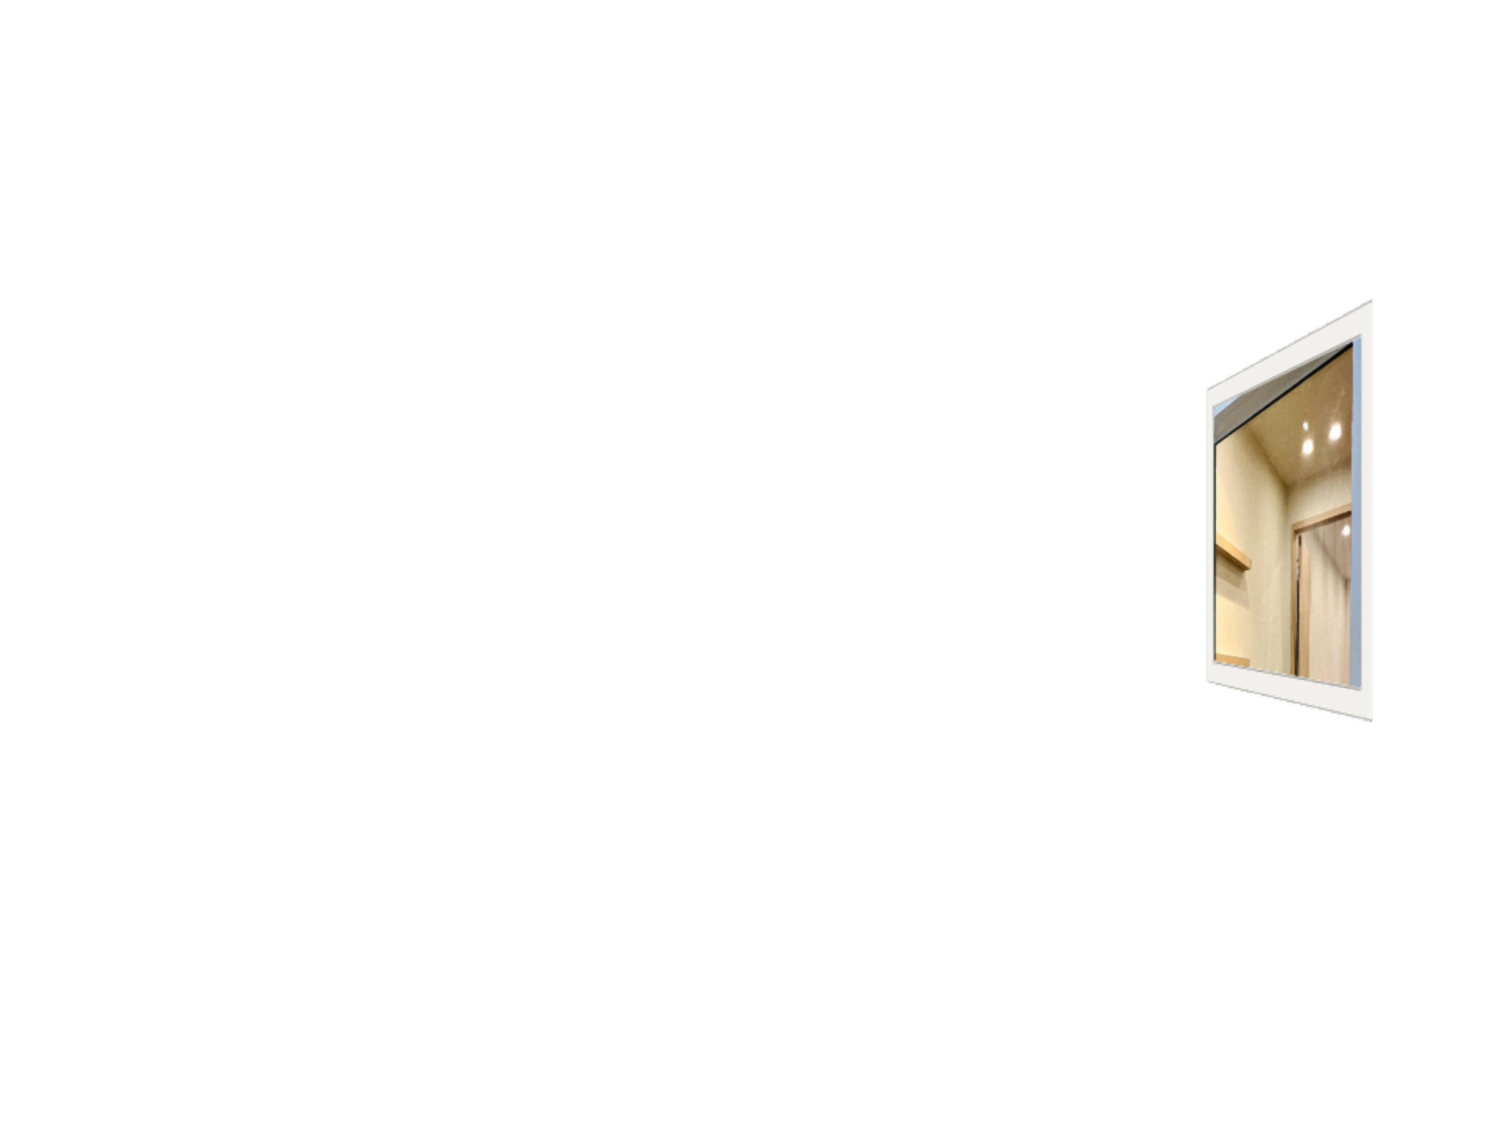
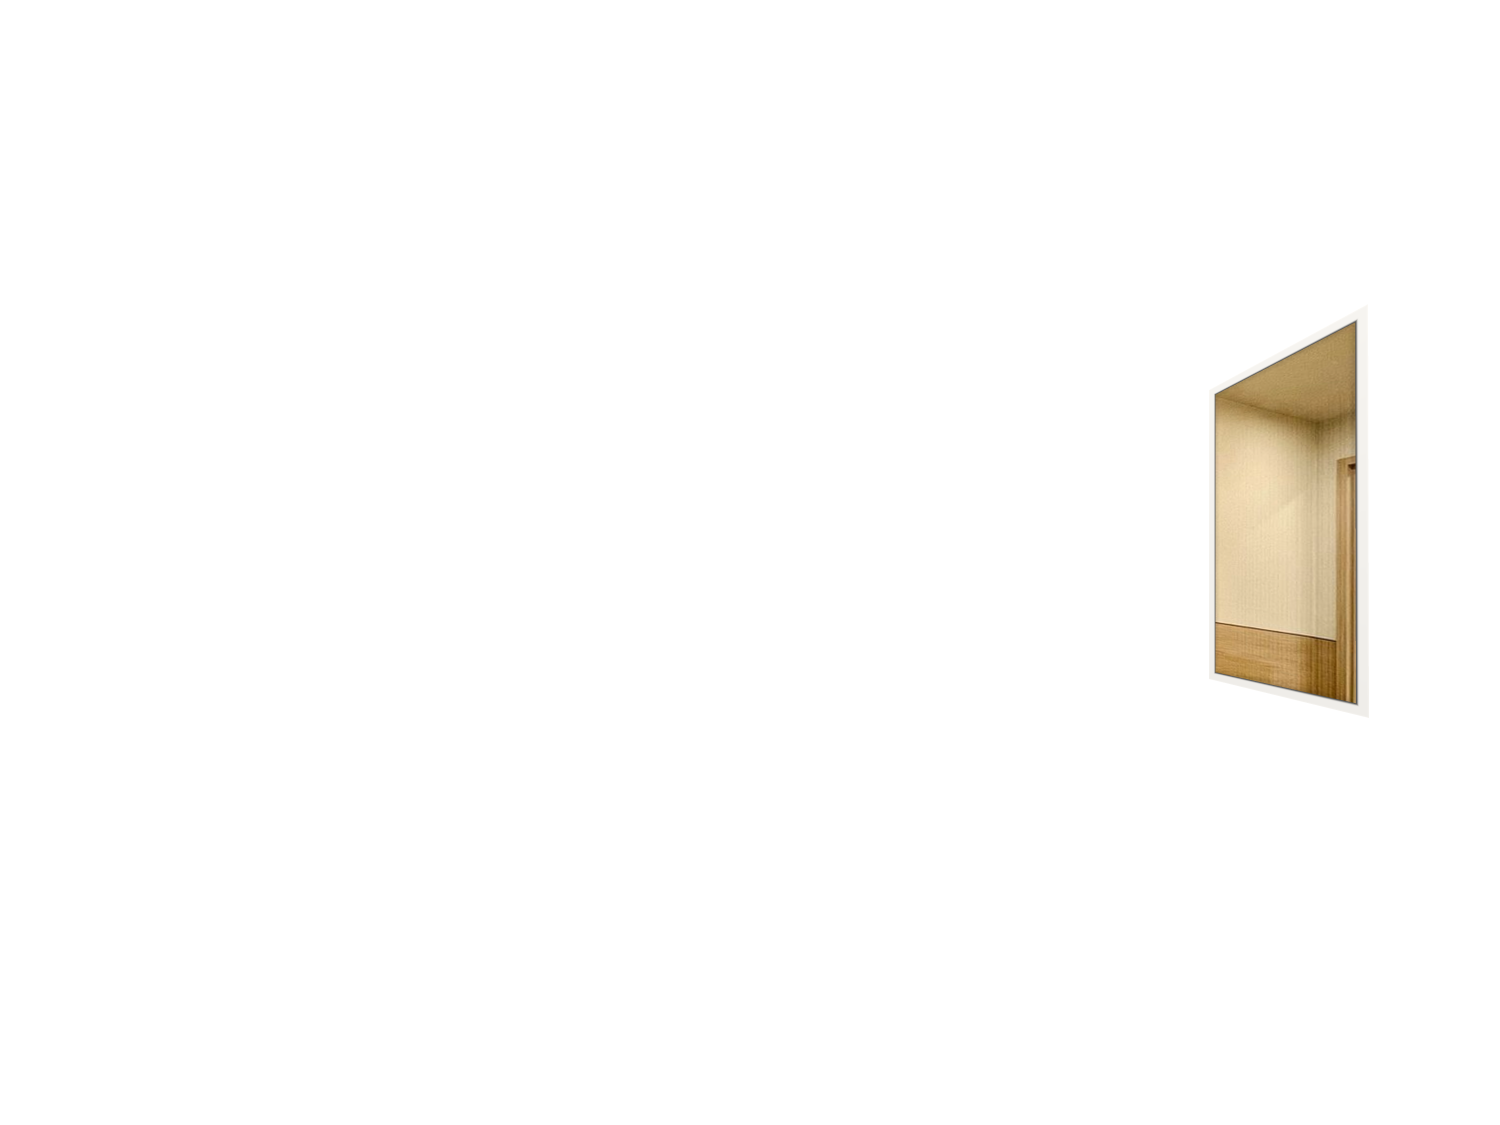
실사 모드 시창·타공판·후면 아트보드 클린 보정
- 후면 아트보드: 3분할 패널을 균일 텍스처로 재생성, 우측 하단 콘센트/대각선/패치 자국·상단 빛 점 제거
- 아트보드 표시 시 후면 콘센트 영역까지 패널로 덮도록 커버리지 분리(backFull)
- 측면 라인타공: 원근에 맞춘 루버 패턴으로 재생성, 바닥 경계선까지 밀착(밝은 틈 제거)·표면 얼룩/ seam 제거
- 시창 7종: 2x 안티앨리어싱 정밀 프레임으로 재생성(베벨 톱니 제거), 1500px 실사 뷰 사용(이중창은 에지 스무딩)
- 에셋 캐시 버전 갱신

Changed region(s): [[0.7973, 0.28, 0.92, 0.6533]]

diff --git a/assets/configurator.js b/assets/configurator.js
@@ -2473,19 +2473,19 @@ function photoHexToRgb(hex){
 const photoWinImgs = {};
 function preloadPhotoWins(){
   const map = {
-    '600x800': 'assets/win-600.png?v=7',
-    '800x800': 'assets/win-800.png?v=7',
-    '1200x800': 'assets/win-1200.png?v=7',
-    'double1200': 'assets/win-double.png?v=7',
+    '600x800': 'assets/win-600.png?v=8',
+    '800x800': 'assets/win-800.png?v=8',
+    '1200x800': 'assets/win-1200.png?v=8',
+    'double1200': 'assets/win-double.png?v=8',
     'rail_ceiling': 'assets/ceiling-rail.png?v=9',
     'slat_nocob': 'assets/slat-nocob.png?v=4',
-    'side_left': 'assets/side-slat-left.png?v=1',
-    'side_right': 'assets/side-slat-right.png?v=1',
-    'back_art': 'assets/back-artboard.png?v=1',
-    'back_600x800': 'assets/win-600x800-back.png?v=3',
-    'back_800x800': 'assets/win-800x800-back.png?v=3',
-    'back_1200x800': 'assets/win-1200x800-back.png?v=3',
-    'back_double1200': 'assets/win-double-back.png?v=3',
+    'side_left': 'assets/side-slat-left.png?v=2',
+    'side_right': 'assets/side-slat-right.png?v=2',
+    'back_art': 'assets/back-artboard.png?v=2',
+    'back_600x800': 'assets/win-600x800-back.png?v=4',
+    'back_800x800': 'assets/win-800x800-back.png?v=4',
+    'back_1200x800': 'assets/win-1200x800-back.png?v=4',
+    'back_double1200': 'assets/win-double-back.png?v=4',
     'ceiling_clean': 'assets/ceiling-clean.webp?v=1',
     'side_light_left': 'assets/side-light-left.webp?v=1',
     'side_light_right': 'assets/side-light-right.webp?v=1',
@@ -2549,13 +2549,15 @@ function initPhotoCache(cb){
       pts.forEach(([px, py], i) => i ? x.lineTo(px * W, py * H) : x.moveTo(px * W, py * H));
       x.closePath();
     };
-    const buildCov = (polys) => {
+    const buildCov = (polys, excl = true) => {
       const raw = document.createElement('canvas'); raw.width = W; raw.height = H;
       const rx = raw.getContext('2d', { willReadFrequently: true });
       rx.fillStyle = '#fff';
       polys.forEach(pts => { trace(rx, pts); rx.fill(); });
-      rx.fillStyle = '#000';
-      EXCL.forEach(pts => { trace(rx, pts); rx.fill(); });
+      if (excl){
+        rx.fillStyle = '#000';
+        EXCL.forEach(pts => { trace(rx, pts); rx.fill(); });
+      }
       const bl = document.createElement('canvas'); bl.width = W; bl.height = H;
       const bx = bl.getContext('2d', { willReadFrequently: true });
       bx.filter = 'blur(2px)';
@@ -2568,6 +2570,7 @@ function initPhotoCache(cb){
     photoCache.cov = {
       art: buildCov(REGIONS.art),
       back: buildCov(REGIONS.back),
+      backFull: buildCov(REGIONS.back, false),
       floor: buildCov(REGIONS.floor),
       right: buildCov(REGIONS.right)
     };
@@ -2632,7 +2635,7 @@ function renderPhotoStage(){
     const backArt = (slatPos !== 'back' && photoCache.backArtOrig) ? photoCache.backArtOrig : null;
     /* 후면 COB 2구를 쓰지 않는 조합에서는 천장에서 그 구멍·빛혼적을 지운 패치를 먼저 씌웁니다 */
     const ceilClean = ((slatPos !== 'back' || state.light === 'rail') && photoCache.ceilCleanOrig) ? photoCache.ceilCleanOrig : null;
-    const cA = photoCache.cov.art, cB = photoCache.cov.back, cF = photoCache.cov.floor, cR = photoCache.cov.right;
+    const cA = photoCache.cov.art, cB = (backArt ? photoCache.cov.backFull : photoCache.cov.back), cF = photoCache.cov.floor, cR = photoCache.cov.right;
 
     const aRgb = photoHexToRgb(pick(ARTBOARD, state.artboard).hex);
     const sRgb = photoHexToRgb(pick(SLAT, state.slat).hex);

diff --git a/configurator.html b/configurator.html
@@ -122,7 +122,7 @@
 
 <div class="toast" id="toast" role="status" aria-live="polite"></div>
 
-<script type="module" src="assets/configurator.js?v=20261122a8"></script>
+<script type="module" src="assets/configurator.js?v=20261122a9"></script>
 <noscript>
   <style>.panel-body{display:none}.panel-foot{display:none}</style>
   <p style="padding:20px">3D 견적 시뮬레이터는 자바스크립트가 필요합니다. 전화 상담 <a href="tel:01030015906">010-3001-5906</a> 으로 문의해 주세요.</p>
